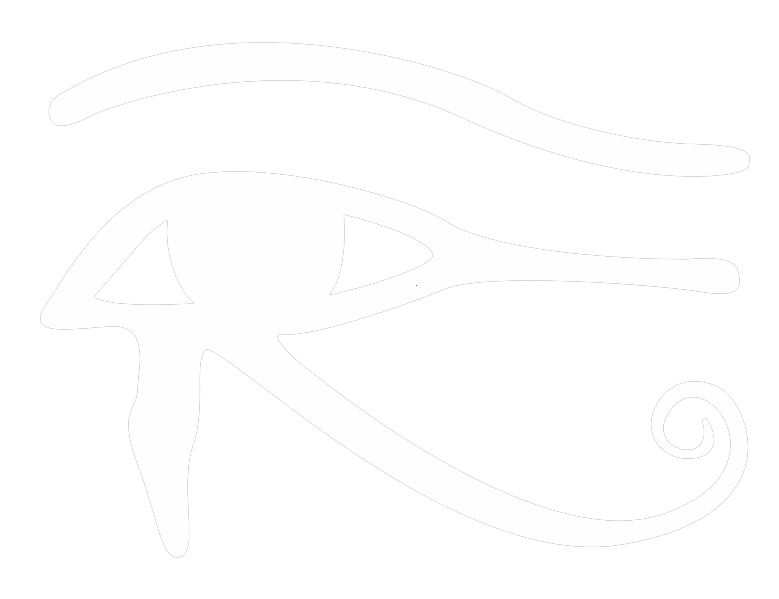
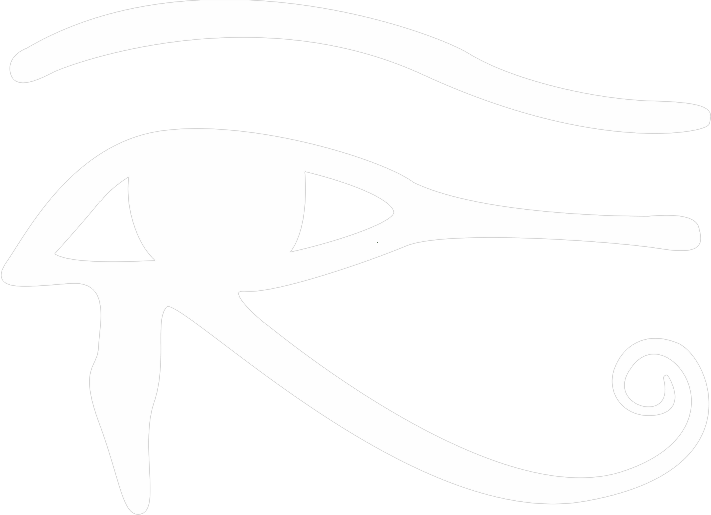
butcher css and make new layout

Changed region(s): [[0.9902, 0.7456, 1.0, 0.7767], [0.9902, 0.2175, 1.0, 0.2485], [0.1857, 0.9942, 0.2166, 1.0]]

diff --git a/src/components/Header.js b/src/components/Header.js
@@ -1,56 +1,96 @@
-import React from 'react'
+import React, { Component } from 'react'
 
-export default function Header() {
-    return (
-        <div className="header-horus">
-            <div className="row">
-            <div className="col-6 col-md-4 d-flex order-md-1 pr-md-5">
-                <ul className="nav flex-column ml-md-auto ml-0">
-                <li className="nav-item m-2">
+export default class Header extends Component {
+    componentDidMount() {
+        let horus = document.querySelector('#horus');
+        // console.log("horus porus", horus.getBoundingClientRect());
+        let horus_position = horus.getBoundingClientRect();
+
+        // let horusX = (horus_position.right + horus_position.left) / 2
+        // let horusY = (horus_position.bottom + horus_position.top) / 2;
+        let horusY = horus.offsetTop + horus.offsetHeight / 2;
+        let horusX = horus.offsetLeft + horus.offsetWidth / 2;
+        // console.log("offsets", horus.offsetTop, horus.offsetTop + horus.offsetHeight);
+        // console.log("horus position", horusX, horusY);
+        // console.log("horus top bottom", horus_position.top, horus_position.bottom)
+        horusY = horusY + 100;
+
+        let planets = document.querySelectorAll('.nav-item');
+        console.log(planets);
+
+
+        let rToPlanets = 210;
+        let planetsCirc = 2 * Math.PI * rToPlanets;
+        let planetsNumber = planets.length;
+        let planetsWidth = 65;
+        let planetsMargin = (planetsCirc - planetsNumber * planetsWidth) / planetsNumber;
+        let distanceBetweenCenters = planetsWidth + planetsMargin;
+        let planetArc = 0;
+        let planetAngle = 0;
+        // console.log("planetsCirc", planetsCirc);
+        for (let i = 0; i < planetsNumber; i++) {
+            planetArc = i * distanceBetweenCenters;
+            planetAngle = planetArc / planetsCirc * 2 * Math.PI;
+            let planetX = horusX + rToPlanets * Math.sin(planetAngle);
+            let planetY = horusY - rToPlanets * Math.cos(planetAngle);
+            
+            // console.log("planetAngle", planetAngle);
+            // console.log("planetArc", planetArc);
+            // console.log("xShift", rToPlanets * Math.sin(planetAngle))
+            // console.log("yShift", rToPlanets * Math.cos(planetAngle))
+            // console.log(planetX, planetY);
+            
+            planets[i].style.position = "absolute";
+            planets[i].style.zIndex = "1";
+            planets[i].style.left = (planetX - planetsWidth / 2).toString() + "px";
+            planets[i].style.top = (planetY - planetsWidth / 2).toString() + "px";
+            // planets[i].style.left = (planetX).toString() + "px";
+            // planets[i].style.top = (planetY).toString() + "px";
+    }
+}
+    render() {    
+        return (
+            <div className="header-horus">
+                <div className="nav-item">
                     <a href='https://t.me/reshreshus' className="nav-link">
                     <i className="fab fa-telegram fa-4x" />
-                    {/* Telegram */}
                     </a> 
-                </li>
-                <li className="nav-item m-2">
-                    <a href='https://vk.com/reshreshus' className="nav-link">
-                        <i className="fab fa-vk fa-4x" />
-                    </a> 
-                </li>
-                <li className="nav-item m-2">
+                </div>
+                <div className="nav-item">
                     <a href='mailto:merumeru.ceo@yandex.ru' className="nav-link">
                         <i className="far fa-envelope fa-4x" />
                     </a> 
-                </li>
-                </ul>
+                </div>
+                <div className="nav-item">
+                    <a href='https://vk.com/reshreshus' className="nav-link">
+                        <i className="fab fa-vk fa-4x" />
+                    </a> 
+                </div>
+                <div className="nav-item">
+                    <a href='#projects' className="nav-link">
+                        <div className="d-flex align-items-center">
+                            <i className="fas fa-project-diagram fa-4x" />
+                            <h3>Projects</h3>
+                        </div>
+                    </a> 
+                </div>
+                <div className="nav-item">
+                    <a href='https://twitter.com/reshreshus2' className="nav-link">
+                    <i className="fab fa-twitter fa-4x" />
+                    </a> 
+                </div>
+                <div className="nav-item">
+                    <a href='https://github.com/reshreshus' className="nav-link">
+                        <i className="fab fa-github fa-4x" />
+                    </a> 
+                </div>
+                
+                <div className="nav-item">
+                    <a href='https://merume.ru' className="nav-link">
+                        <i className="fas fa-bus fa-4x" />
+                    </a> 
+                </div>
             </div>
-            <div className="col-xs-7 col-md-4 order-md-2 order-1">
-                <img id="horus" className="img-fluid" src="horus_white.png" alt="Horus Eye"/>
-            </div>  
-            <div className="col-6 col-md-4 order-md-3 pl-md-5 pl-lg-0">
-                <ul className="nav flex-column">
-                    <li className="nav-item m-2">
-                        <a href='https://twitter.com/reshreshus2' className="nav-link">
-                        <i className="fab fa-twitter fa-4x" />
-                        {/* Telegram */}
-                        </a> 
-                    </li>
-                    <li className="nav-item m-2">
-                        <a href='https://github.com/reshreshus' className="nav-link">
-                            <i className="fab fa-github fa-4x" />
-                        </a> 
-                    </li>
-                    <li className="nav-item m-2">
-                        <a href='#projects' className="nav-link">
-                            <div className="d-flex align-items-center">
-                                <i className="fas fa-project-diagram fa-4x" />
-                                <h3>Projects</h3>
-                            </div>
-                        </a> 
-                    </li>
-                </ul>
-            </div>
-            </div>
-        </div>
-    )
+        )
+    }
 }

diff --git a/src/scss/layout/_header.scss b/src/scss/layout/_header.scss
@@ -1,20 +1,24 @@
-.header-horus {
-    margin-bottom: 120px;
-}
-
 #horus {
-    max-width: 400px;
-    &:hover {
+    width: 270px;
+    // height: 100px;
+    margin: 70px;
+    &:hover { 
         -webkit-filter: drop-shadow(0 2px 5px $green-yellow-light);
         filter: drop-shadow(0 2px 5px $green-yellow-light);
       }
-    transform: translate(0, 65px);
+    // transform: translate(0, 65px);
     animation: 3s linear 1s infinite alternate slidein;
 }
 
-.nav-link {
-    color: $light-darker-1 !important;
+.horus-container {
+    margin: 100px;   
+    padding: 0;
+    width: 450px;
+}
 
+
+.nav-item a {
+    color: $light-darker-1 !important;
     &:hover {
         color: $light-primary !important;
         text-shadow: 0 0 4px $green-yellow-light, 0 0 7px $green-yellow-light;
@@ -24,6 +28,10 @@
         animation: shake 0.82s cubic-bezier(.36,.07,.19,.97) both;
         transform: translate3d(0, 0, 0);
         backface-visibility: hidden;
+    }
+    padding: 0;
+    .nav-link {
+        padding: 0;
     }
 }
 
@@ -44,8 +52,8 @@
 // }
 
 @keyframes slidein {
-    from { transform: translate(0, 65px)}
-    to   { transform: translate(0, 80px) }
+    from { transform: translate(0, 0)}
+    to   { transform: translate(0, 15px) }
 }
 
 @keyframes shake {

diff --git a/src/App.js b/src/App.js
@@ -1,23 +1,40 @@
-import React from 'react';
+import React, { Component } from 'react'
 import './scss/main.scss';
 
-import Header from './components/Header';
-import InfoBlock from './components/InfoBlock';
 
-function App() {
-  return (
-    <div>
+import InfoBlock from './components/InfoBlock';
+import Header from './components/Header';
+export default class App extends Component {
+
+  
+
+  render () {
+    return (
       <div className="container-fluid">
-        <Header />
-        <div className="row justify-content-md-center">
-          <InfoBlock />
+        
+        <div className="row justify-content-space-around">
+          <div className="col-12 col-lg-6 pl-auto">
+            <div className="horus-container">
+              <img id="horus" src="horus_white.png" alt="Horus Eye"/>
+              <Header />
+            </div>
+          </div>
+
+          <div className="col-12 col-lg-5 my-auto">
+            <InfoBlock />
+          </div>
+
         </div>
         
-       
-
+        <div className="row justify-content-center">
+         
+        </div>
+        
+          
+         
+        
       </div>
-    </div>
-  );
+    );
+  }
+  
 }
-
-export default App;

diff --git a/src/components/InfoBlock.js b/src/components/InfoBlock.js
@@ -3,8 +3,8 @@ import React from 'react'
 export default function InfoBlock() {
     return (
         // <div className="info-block card">
-            <div className="col col-md-6">
-                <div className="info-block">
+            
+                <div className="info-block m-3">
                     <p className="">
                         Hi. I'm <span className="highlight">Rishat</span>. <br />
                         A human being for about 20 years.<br />
@@ -14,8 +14,6 @@ export default function InfoBlock() {
                         I'm starting to open up to the world. Feel free to contact me)
                     </p>
                 </div>
-                
-            </div>
             
         // </div>
     )

diff --git a/src/scss/layout/_info_block.scss b/src/scss/layout/_info_block.scss
@@ -1,16 +1,16 @@
 .info-block {
-    border: 1px solid $light-primary;
-    padding: 20px;
+    // border: 1px solid $light-primary;
+    // padding: 20px;
     border-radius: 5px;
     font-size: 1.5rem;
     margin:  0 0 1rem 3rem;
     max-width: 550px;
     background-color: $primary-bg;
 
-    &:hover {
-        -webkit-filter: drop-shadow(0 2px 5px $green-yellow-light);
-        filter: drop-shadow(0 2px 5px $green-yellow-light);
-    }
+    // &:hover {
+    //     -webkit-filter: drop-shadow(0 2px 5px $green-yellow-light);
+    //     filter: drop-shadow(0 2px 5px $green-yellow-light);
+    // }
 }
 
 @media (max-width: 768px) {

diff --git a/public/index.html b/public/index.html
@@ -13,6 +13,7 @@
     <script type="text/javascript" src="drop.js"></script>
     <!-- <style> canvas {vertical-align: top; display: block; } </style> -->
 
+
     <meta charset="utf-8" />
     <link rel="icon" href="%PUBLIC_URL%/favicon.ico" />
     <meta name="viewport" content="width=device-width, initial-scale=1" />
@@ -37,5 +38,7 @@
   <body>
     <noscript>You need to enable JavaScript to run this app.</noscript>
     <div id="root"></div>
+     <!-- horus -->
+     <script type="text/javascript" src="horus_circle.js"></script>
   </body>
 </html>

diff --git a/src/index.js b/src/index.js
@@ -1,6 +1,6 @@
 import React from 'react';
 import ReactDOM from 'react-dom';
-import './index.css';
+// import './index.css';
 import App from './App';
 import * as serviceWorker from './serviceWorker';
 

diff --git a/src/scss/layout/_common.scss b/src/scss/layout/_common.scss
@@ -4,6 +4,7 @@ body {
     color: $light-primary !important;
     font-size: 16px !important;
     margin: 0 !important;
+    padding: 0 !important;
 }
 
 .highlight {

diff --git a/public/horus_circle.js b/public/horus_circle.js
@@ -1,0 +1,3 @@
+// let horus_position = document.querySelector('#horus')
+// console.log("horus porus", horus_position);
+// console.log("HEEEY");
